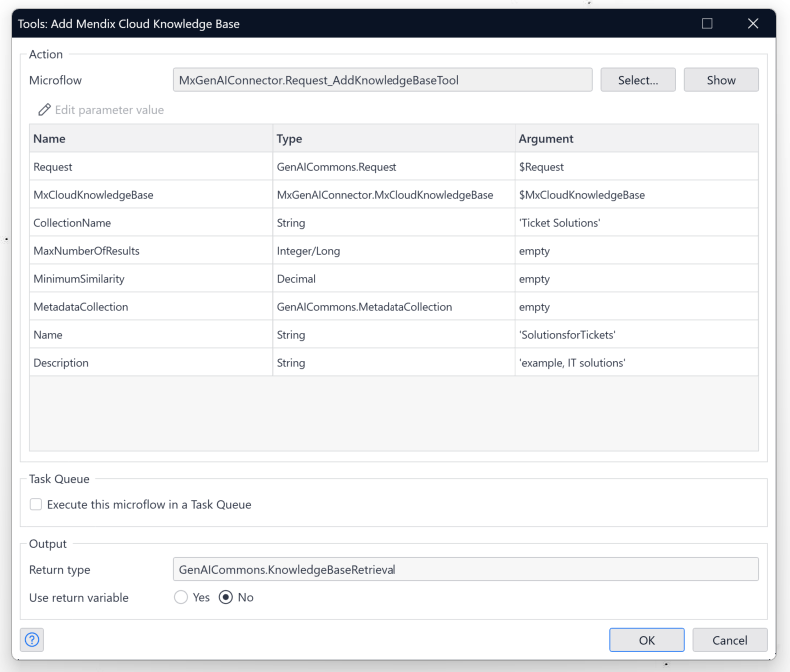
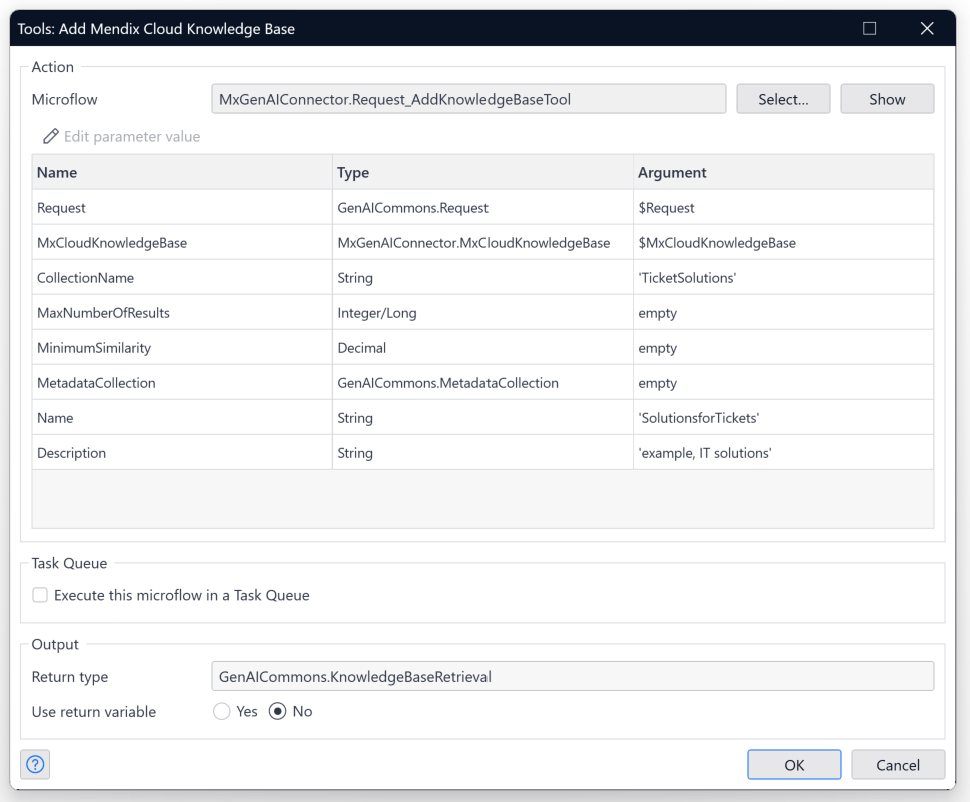
SAS-997: typo fixes, changed wordings to make the language appealing for developers, replaced images

diff --git a/content/en/docs/appstore/use-content/platform-supported-content/modules/genai/how-to/ground_your_llm_in_data.md b/content/en/docs/appstore/use-content/platform-supported-content/modules/genai/how-to/ground_your_llm_in_data.md
@@ -8,7 +8,7 @@ description: "This document guides you to ground your large language model in da
 
 ## Introduction
 
-This document explains how to add data into your smart app to be included in your Large Language Model (LLM). To do this, you can use your existing app or follow the [Build a Smart App from a Blank GenAI App](/appstore/modules/genai/how-to/blank-app/) guide to start from scratch.
+This document explains how to add data into your smart app to be included when interacting with a Large Language Model (LLM). To do this, you can use your existing app or follow the [Build a Smart App from a Blank GenAI App](/appstore/modules/genai/how-to/blank-app/) guide to start from scratch.
 
 Through this document, you will:
 
@@ -19,15 +19,13 @@ Through this document, you will:
 
 Before implementing this capability into your app, make sure you meet the following requirements:
 
-* An existing app: To simplify your first use case, start building from a preconfigured set up [Blank GenAI Starter App](https://marketplace.mendix.com/link/component/227934). For more information, see [Build a Chatbot from Scratch Using the Blank GenAI App](/appstore/modules/genai/how-to/blank-app/). 
+* Start from scratch: To simplify your first use case, start building from a preconfigured setup [Blank GenAI Starter App](https://marketplace.mendix.com/link/component/227934). For more information, see [Build a Chatbot from Scratch Using the Blank GenAI App](/appstore/modules/genai/how-to/blank-app/). 
 
-* Installation: Install the [GenAI For Mendix](https://marketplace.mendix.com/link/component/227931) bundle from the Mendix marketplace. If you start with the Blank GenAI App, skip this installation. Please make sure to have the bundle version **2.2.0 or higher**.
+* Install the [GenAI For Mendix](https://marketplace.mendix.com/link/component/227931) bundle (version **2.2.0 or higher**) from the Mendix marketplace. If you start with the Blank GenAI App, you can skip this installation.
 
-* Have a Knowledge Base resource within the [Mendix Cloud GenAI Resource Packs](appstore/modules/genai/mx-cloud-genai/resource-packs/). 
+* Have a Knowledge Base resource within the [Mendix Cloud GenAI Resource Packs](/appstore/modules/genai/mx-cloud-genai/resource-packs/). 
 
-* Have data to be added into your LLM. For this example, we will be using a modified and streamlined version of the demo data found in the [GenAI Showcase App](https://marketplace.mendix.com/link/component/220475), in the `ExampleMicroflows` module > `Ground in data - Mendix Cloud` > `Example data set`.
-
-* Advanced knowledge of the Mendix platform: Familiarity with Mendix Studio Pro, microflows, and modules.
+* Have data to be added into your LLM. For this example, we will be using a modified and streamlined version of the demo data found in the [GenAI Showcase App](https://marketplace.mendix.com/link/component/220475), in the `ExampleMicroflows` module > `Ground in data - Mendix Cloud` > `Example data set`. If you need to create the demo data yourself, you should be familar with import mappings and JSON structures.
 
 * Intermediate understanding of GenAI concepts: Review the [Enrich Your Mendix App with GenAI Capabilities](/appstore/modules/genai/) page for foundational knowledge and familiarize yourself with the [concepts](/appstore/modules/genai/using-gen-ai/).
 
@@ -39,15 +37,15 @@ Before implementing this capability into your app, make sure you meet the follow
 
 ### Choosing the Infrastructure {#infrastructure}
 
-Since this tutorial is focused on the [Mendix Cloud GenAI Resource Packs](appstore/modules/genai/mx-cloud-genai/resource-packs/), make sure to have the [Mendix Cloud GenAI Connector](/appstore/modules/genai/mx-cloud-genai/MxGenAI-connector/) that is part of the [GenAI For Mendix](https://marketplace.mendix.com/link/component/227931) bundle on the marketplace.
+Since this tutorial is focused on the [Mendix Cloud GenAI Resource Packs](/appstore/modules/genai/mx-cloud-genai/resource-packs/), make sure to have the [Mendix Cloud GenAI Connector](/appstore/modules/genai/mx-cloud-genai/MxGenAI-connector/) that is part of the [GenAI For Mendix](https://marketplace.mendix.com/link/component/227931) bundle on the marketplace.
 
 ### Creation of Domain Model Entity {#domainmodel}
 
-Considering that your application should be able to store the information, you will need to create attributes for the knowledge you want to save there. For this example, based on the bellow-mentioned [demo data](/appstore/modules/genai/how-to/howto-groundllm/#demodata), we create one `Description` attribute with type `String`. 
+Considering that your application should be able to store the information, you will need to create attributes for the knowledge you want to save there. For this example, based on the below-mentioned [demo data](/appstore/modules/genai/how-to/howto-groundllm/#demodata), we create one `Description` attribute with type `String`. 
 
 ### Demo Data {#demodata}
 
-You can use your own data to be uploaded into the knowledge base. However, for this example and as previously mentioned, we use a modified and streamlined version of the demo data found in the [GenAI Showcase App](https://marketplace.mendix.com/link/component/220475), in the `ExampleMicroflows` module > `Ground in data - Mendix Cloud` > `Example data set`. This demo data contains a single attributes named `Description` that provides information on how to solve basic IT support issues. For this information, the following is created: 
+You can use your own data to be uploaded into the knowledge base. However, for this example and as previously mentioned, we use a modified and streamlined version of the demo data found in the [GenAI Showcase App](https://marketplace.mendix.com/link/component/220475), in the `ExampleMicroflows` module > `Ground in data - Mendix Cloud` > `Example data set`. This demo data contains the attribute `Description` that provides information on how to solve basic IT support issues. For this information, the following is provided: 
 
 * A `JSON File` with examples about IT support solutions, such as *'If the software crashes every time you try to save your document, first ensure you have the latest updates installed. Try...'*.
 
@@ -66,90 +64,92 @@ To start, you need to create microflows that allow you to upload data into your 
 2. Add the `Retrieve Objects` action. Here you can configure it as follow:
     
     * Source: `From database`
-    * Entity: You link here your domain model, which in this example would be the `MyFirstModule.Ticket`
+    * Entity: Select the entity that contains your knowledge, which in this example would be the `MyFirstModule.Ticket`
     * Range: `All`
-    * Object name: Depending on your use case, you can add the best fitting name. For this example, we name it `TicketList`
+    * Object name: `TicketList`
 
-3. Next, add the `Chunks: Initialize ChunkCollection` action where you select the `GenAICommons.ChunkCollection_Create` in the `Microflow` parameter. You can keep the *Use return variable* as Yes and named the object `ChunkCollection`, for example. 
+3. Next, add the `Chunks: Initialize ChunkCollection` action. You can keep the *Use return variable* as Yes and object name `ChunkCollection`.
 
-4. Next, as seen in the image above, we include a `Loop` where the Iterator has as *Loop type* `For each (item in the list)`, the *Iterate over* is the List collected in step 2, which in this case is named `TicketList`, and lastly, you can add a *Loop object name*, such as `IteratorTicket`. After saving those seetings, add a `Chunks: Add KnowledgeBaseChunk to ChunkCollection` action inside the loop. Here you can configure it as follow:
+4. Next, as seen in the image above, we include a `Loop` where the Iterator has as *Loop type* `For each (item in the list)`, the *Iterate over* is the List retrieved in step 2, which in this case is named `TicketList`, and lastly, you can add a *Loop object name*, such as `IteratorTicket`. After saving those settings, add a `Chunks: Add KnowledgeBaseChunk to ChunkCollection` action inside the loop. Here you can configure it as follow:
 
-    * Chunk collection: `$ChunkCollection` form step 3
-    * Input Text: Write as an expression the entity from the loop, with your parameter, which in this case is `$IteratorTicket/Description`
-    * Human readable ID: `empty`
-    * Mx object: Select your loop's entity, such as `$IteratorTicket`
+    * Chunk collection: `$ChunkCollection` from step 3
+    * Input Text: Edit the expression and use the iterator object from the loop with the desired attribute, which in this case is `$IteratorTicket/Description`
+    * Human readable ID: `empty` (as this is an optional value)
+    * Mx object: Select the loop's iterator, such as `$IteratorTicket`
     * Use return value: No
+    * Metadata collection: `empty` (as this is an optional value)
 
-5. Move outside the loop, and add the `Retrieve Objects` action. Here you can configure it as follow:
+5. Right after the loop, add an `Retrieve` action to retrieve a `MxCloudKnowledgeBase`. In this example we use the first that is found in the database:
     
     * Source: `From database`
     * Entity: `MxGenAIConnector.MxCloudKnowledgeBase`
     * Range: `First`
     * Object name: `MxCloudKnowledgeBase`
 
-6. Next, add the `Connection: Get` action where you select the `MxGenAIConnector.MxKnowledgeBaseConnection_Create` in the *Microflow* parameter. As *parameter values*, select:
+6. Next, add the `Connection: Get` action from the `Mendix Cloud Knowledge Base` category:
 
-    * MxCloudKnowledgeBase | Type: `Variable` | Variable: `MxGenAIConnector.MxCloudKnowledgeBase`
-    * CollectionName | Type: `Expression` | Expression: `'Ticket Solutions'`
+    * MxCloudKnowledgeBase | Type: `Variable` | Variable: `MxCloudKnowledgeBase` (as retrieved in step 5)
+    * CollectionName | Type: `Expression` | Expression: `'TicketSolutions'`
 
-You can keep the *Use return variable* as Yes and named the object `MxKnowledgeBaseConnection`, for example.
+You can keep the *Use return variable* as Yes and object name `MxKnowledgeBaseConnection`.
 
-7. Next, add the `Embed & Repopulate Collection` action where you select the `MxGenAIConnector.ChunkCollection_Embed_RepopulateCollection` in the *Microflow* parameter. As *parameter values*, select:
+7. Next, add the `Embed & Repopulate Collection` action to insert your knowledge into the knowledge base:
 
-    * Connection | Type: `Variable` | Variable: `MxGenAIConnector.MxKnowledgeBaseConnection`
-    * ChunkCollection | Type: `Variable` | Expression: `GenAICommons.ChunkCollection`
+    * Connection | Type: `Variable` | Variable: `MxKnowledgeBaseConnection` (as retrieved in step 6)
+    * ChunkCollection | Type: `Variable` | Variable: `GenAICommons.ChunkCollection` (as created in step 3)
 
-You can keep the *Use return variable* as Yes and named the object `IsSuccess`, for example.
+You can keep the *Use return variable* as Yes and variable name `IsSuccess`.
 
-8. Next, include a decision where:
+8. Next (optional), include a decision:
     * Caption: for example, `Replace Success`
     * Decision Type: `Expression`
     * Expression: `$IsSuccess`
 
-    1. If the decision is `false`, an `End event` action can be added where a microflow return value can be set to `false` with a return variable name as `Variable`.
+    1. If the decision is `true`, an `End event` action can be added where a microflow return value can be set to `true`. You may add an end-user facing message to explain that the insertion was successful.
 
-    2. If the decision is `true`, an `End event` action can be added where a microflow return value can be set to `true` with a return variable name as `Variable`.
+    2. If the decision is `false`, an `End event` action can be added where a microflow return value can be set to `false`. You may add an end-user facing message to explain that the insertion has failed.
 
-You finished this microflow! Now, you need to create a new one for the creation of the dataset. What this second microflow does is to check if there is information in the database. If there is, it contiues it flows, and if it does not, it adds the JSON file created above in the [demo data section](/appstore/modules/genai/how-to/howto-groundllm/#demodata).
+You successfully implemented the knowledge base insertion microflow! In the case that you do not have any data available in your app yet, you need to create a microflow for the creation of the dataset as described in the next section.
 
 #### Data set Microflow {#dataset}
+This microflow first checks if there is already a list of tickets in the database. If that is not the case, it imports a JSON string as described in [demo data section](/appstore/modules/genai/how-to/howto-groundllm/#demodata).
 
-9. Create a new microflow called, for example, `Tickets_CreateDataset`.
+9. Create a new microflow, for example `Tickets_CreateDataset`.
 
 {{< figure src="/attachments/appstore/platform-supported-content/modules/genai/genai-howto-goundllm/loaddataintokb_example2.png" >}}
 
-10. Add the `Retrieve Objects` action. Here you can configure it as follow:
+10. Add a `Retrieve` action:
     
     * Source: `From database`
-    * Entity: You link here your domain model, which in this example would be the `MyFirstModule.Ticket`
+    * Entity: Select the entity that contains your knowledge, which in this example would be the `MyFirstModule.Ticket`
     * Range: `First`
-    * Object name: Depending on your use case, you can add this name. For this example, it is called `Ticket`.
+    * Object name: `Ticket`
 
 11. Next, include a decision where:
-    * Caption: for example, `Tickets?`
+    * Caption: `Tickets?`
     * Decision Type: `Expression`
     * Expression: `$Ticket = empty`
 
-    1. If the decision is `false`, an End event is added.
+    1. If the decision is `false`, an End event is added because we do not need to import any tickets.
 
-    2. If the decision is `true`,  continue to the next step by adding a new action.
+    2. If the decision is `true`,  continue to the next step.
 
-12. After the decision `true`, add the `Create Variable` action, where the value includes the JSON text mentioned in the [demo data](/appstore/modules/genai/how-to/howto-groundllm/#demodata). The variable name can be set, for example, `TicketJSON`.
+12. In the `true` path, add the `Create Variable` action, where the `String `value includes the JSON text mentioned in the [demo data](/appstore/modules/genai/how-to/howto-groundllm/#demodata). Use `TicketJSON` as the variable's name.
 
 13. Next, add the `Import With Mapping` action with the following configurations:
 
     * Variable: `TicketJSON` created in the previous step
-    * Mapping: You map it to your mapping mentioned in the [demo data section](/appstore/modules/genai/how-to/howto-groundllm/#demodata)
+    * Mapping: Use the mapping mentioned in the [demo data section](/appstore/modules/genai/how-to/howto-groundllm/#demodata)
     * Range: `All`
     * Commit: `Yes without events`
-    * Store in variable: `Yes`
-    * Variable name: For this example, we set it as `Variable`
+    * Store in variable: `No` (optional, not needed here)
+    * Variable name: (optional) only when stored in variable
 
-Now that we finished this step, you need to join both logics and add it to the hompage for the knowledge base to be populated.
+Now that both microflows are created, you need to combine and add them to the homepage for the knowledge base to be populated.
 
-#### Joining the Microflows {#joiningmf}
+#### Joining the Microflows {#joining-microflows}
 
-14. Create a new microflow called, for example, `ACT_TicketList_CreateData_InsertIntoKnowledgeBase`.
+14. Create a new microflow `ACT_TicketList_CreateData_InsertIntoKnowledgeBase`.
 
 {{< figure src="/attachments/appstore/platform-supported-content/modules/genai/genai-howto-goundllm/loaddataintokb_example3.png" >}}
 
@@ -157,17 +157,17 @@ Now that we finished this step, you need to join both logics and add it to the h
 
 16. Next, add a `Call Microflow` action where you call the `MyFirstModule.ACT_TicketList_LoadAllIntoKnowledgeBase` microflow created above. For the *Use return variable*, you select `No`.
 
-You finished the first microflows.
+You sucessfully added the logic to insert data into the knowledge base!
 
 ### Chat Setup {#chatbotmicroflows}
 
-To continue, create and adjust certain microflows as shown below. 
+To use the knowledge in a chat interface, create and adjust certain microflows as shown below. 
 
-1. Locate the pre-built microflow `ChatContext_ChatWithHistory_ActionMicroflow` in the **ConversationalUI** > **USE_ME** > **Conversational UI** > **Action microflow examples** folder and copy it into your `MyFirstBot` module.
+1. Search for the pre-built microflow `ChatContext_ChatWithHistory_ActionMicroflow` in the **ConversationalUI** > **USE_ME** > **Conversational UI** > **Action microflow examples** folder and copy it into your `MyFirstBot` module.
 
-2. Locate the pre-built microflow `ACT_FullScreenChat_Open` in **ConversationalUI > USE_ME > Pages**. Right-click on the microflow and select **Include in project** to copy it into your `MyFirstBot` module.
+2. Search for the pre-built microflow `ACT_FullScreenChat_Open` in **ConversationalUI > USE_ME > ConversationalUI > Pages**. Copy the microflow into your `MyFirstBot` module and afterwards select **Include in project** on the copied microflow.
 
-3. Locate the `New Chat` action in the `ACT_FullScreenChat_Open` microflow. Inside this action, change the following:
+3. Change the parameters of the `New Chat` action in the `ACT_FullScreenChat_Open` microflow:
 
     * The `Action microflow` input parameter to your new `MyFirstBot.ChatContext_ChatWithHistory_ActionMicroflow` from your `MyFirstBot` module.
 
@@ -175,45 +175,46 @@ To continue, create and adjust certain microflows as shown below.
 
     * The `Provider name` input parameter can be changed to a text fitting the purpose better. For example, `My GenAI provider configuration`.
 
-Now that we have the `MyFirstBot.ACT_FullScreenChat_Open` microflow configured, we can adjust the `MyFirstBot.ChatContext_ChatWithHistory_ActionMicroflow`.
+Now that we have the `MyFirstBot.ACT_FullScreenChat_Open` microflow configured, we can adjust the `MyFirstBot.ChatContext_ChatWithHistory_ActionMicroflow` which is called when a user submits a message in the chat interface.
 
 {{< figure src="/attachments/appstore/platform-supported-content/modules/genai/genai-howto-goundllm/chatcontext_microflow_example.png" >}}
 
-1. Locate your `MyFirstBot.ChatContext_ChatWithHistory_ActionMicroflow` microflow in your `MyFirstBot` module.
+1. Open your `MyFirstBot.ChatContext_ChatWithHistory_ActionMicroflow` microflow in your `MyFirstBot` module.
 
-2. After the `Request found` decision, add a `Retrieve Objects` action. Here you can configure it as follow:
+2. After the `Request found` decision, add a `Retrieve` action. In this example we use the first that is found in the database as we did in the insertion microflow:
     
     * Source: `From database`
     * Entity: `MxGenAIConnector.MxCloudKnowledgeBase`
     * Range: `First`
     * Object name: `MxCloudKnowledgeBase`
 
-3. Following this action, continue with the `Tools: Add Mendix Cloud Knowledge Base` action with settings as showed in the picture below.
+3. Add the `Tools: Add Mendix Cloud Knowledge Base` action with settings as showed in the picture below:
 
 {{< figure src="/attachments/appstore/platform-supported-content/modules/genai/genai-howto-goundllm/tool_mendixcloudgenai_example_action.png" >}}
 
- The rest of the actions stay the same as they are currently set. Now that we have the basics, we focus on the demo data and how to ground the LLM with this information. 
-
-
+ The rest of the action can remain the same as they are currently set. Now that we implement everything we need, we can test the chat with enriched knowledge.
 
 ### Navigation Setup
 
-For your application to run as expected, you need to make sure that your navigation calls the right microflows. 
+For your application to run as expected, you need to make sure that you can call the following microflows from your navigation or home page: 
 
-* Chatbot: Call on the `MyFirstModule.ACT_FullScreenChat_Open` microflow created in the [Customizing Chatbot Microflows section](/appstore/modules/genai/how-to/howto-groundllm/#chatbotmicroflows).
+* Chatbot: Add the `MyFirstModule.ACT_FullScreenChat_Open` microflow created in the [Customizing Chatbot Microflows section](/appstore/modules/genai/how-to/howto-groundllm/#chatbotmicroflows).
 
-* Create Demo Data and Populate KB: Call on the `MyFirstModule.ACT_TicketList_CreateData_InsertIntoKnowledgeBase` created in the [Joining the Microflows section](/appstore/modules/genai/how-to/howto-groundllm/#joiningmf).
+* Create Demo Data and Populate KB: Add the `MyFirstModule.ACT_TicketList_CreateData_InsertIntoKnowledgeBase` created in the [Joining the Microflows section](/appstore/modules/genai/how-to/howto-groundllm/#joining-microflows).
 
-* Mendix Cloud Configuration: If you started from a Blank GenAI App, the Settings should be included already. In case you started from your application, call the `MxGenAIConnector.NAV_ConfigurationOverview_Open` microflow. 
+* Mendix Cloud Configuration: If you started from a Blank GenAI App, the configuration page should already be included. In case you started from your application, add the `MxGenAIConnector.NAV_ConfigurationOverview_Open` microflow.
+
+* Ensure that your admin role has the following module roles assigned: MxGenAIConnector.Administrator, ConversationalUI.User, MyFirstModule.Administrator
+
 
 ## Testing and Troubleshooting {#testing-troubleshooting}
 
-Before testing, ensure that you have completed the Mendix Cloud GenAI configuration as described in the [Build a Chatbot from Scratch Using the Blank GenAI App](/appstore/modules/genai/how-to/blank-app/), particularly the [Mendix Cloud GenAI Configuratio](/appstore/modules/genai/how-to/blank-app/#mendix-cloud-genai-configuration) section. 
+Before testing, ensure that you have completed the Mendix Cloud GenAI configuration as described in the [Build a Chatbot from Scratch Using the Blank GenAI App](/appstore/modules/genai/how-to/blank-app/), particularly the [Mendix Cloud GenAI Configuration](/appstore/modules/genai/how-to/blank-app/#mendix-cloud-genai-configuration) section. 
 
-To test the Chatbot, first ensure you click on the **Create Demo Data and Populate KB** icon/text to populate the knowledge base, and to set up your keys to be able to use the Mendix Cloud GenAI Resource Packs. Then, go to the **Chatbot** icon to open the chatbot interface. Start interacting with your chatbot by typing in the chat box something related to your knowledge base.
+To test the Chatbot, first ensure you click on the **Create Demo Data and Populate KB** icon/text to populate the knowledge base. Then, go to the **Chatbot** icon to open the chatbot interface. Start interacting with your chatbot by typing in the chat box something related to your knowledge base.
 For this example, it would be `My computer crashes every time, what can I do?`.
 
-Congratulations! You granted your LLM in data and your chatbot is now ready to use.
+Congratulations! You grounded your LLM in data and your chatbot is now ready to use.
 
 {{% alert color="info" %}}
 In case you get stuck in the microflows, you can find them in the [GenAI Showcase App](https://marketplace.mendix.com/link/component/220475), under the ExampleMicroflows module > Ground in data - Mendix Cloud.
